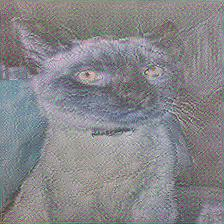
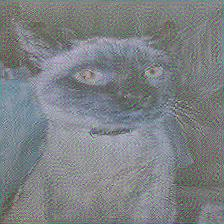
Updated readme and added more results

diff --git a/README.md b/README.md
@@ -5,3 +5,115 @@ This project aims to study the kind of representations learned by ConvNets at di
 1) Deep Inside Convolutional Networks: Visualising Image Classification Models and Saliency Maps by Simonyan et.al.
 
 2) Understanding deep image representations by inverting them by Mahendran et.al.
+
+## Visualizing Score based representations and Extracting Visual Saliency Maps
+
+### Key concepts
+
+This idea was presented in the paper **Deep Inside Convolutional Networks: Visualising Image Classification Models and Saliency Maps** by Simonyan et.al. The authors exlore the following two ideas:
+
+1) What kind of representations are learned by CNN's when we talk about a particular classification score in the solftmax layer of any CNN ? This can be visualized by trying to learn an image from random noise which maximizes the class specific score in the CNN.
+
+2) What is the contribution of individual pixels of any image in the final score achieved by the network? This is explored by extracting Visual Saliency maps by computing the derivative of the final score w.r.t to the input image (this can be done in a single backprop step). The authors also use the Visual Saliency Maps as an initialization tool for GraphCut segmentation which can be used for Object localization and detection. We do **not** explore this aspect of the saliency map in this implementation
+
+### Running the Code
+
+The code for this Visualization can be found in the file `Class_score_and_Saliency_Map_Visualization.ipynb`. It can be run in a top-down manner like any other IPython notebook.
+
+### Idea Dump
+
+I pretrain a `MobileNetV2` architeture on the `cats vs dogs` dataset and then learnt the Visualizations. Would it be better to directly optimize over the learnable image using one of the imagenet class scores rather than pretraining the model
+
+### Results
+
+[WIP]
+
+## Visualizing convnet representations by Inverting them
+
+### Key concepts
+
+This idea was presented in the paper **Understanding deep image representations by inverting them by Mahendran et.al.** by Mahendran et.al. The authors exlore the following idea:
+
+What kind of representations are learned by CNN's at different convolutional blocks? This is explored by trying to invert the representations of a test image at different layers of the network. This can provide us with alternate forms of the same image that can have similiar representations for the ConvNet. This alternative formulation helps us visualize the kind of images that are sufficient to form meaningful representations at different layers of the network.
+
+The inversion procedure involves the following steps:
+
+1) Randomly initialize an image.
+2) Compute the reconstruction loss between the representation of the actual image and the random image at a layer l.
+3) Update the random image by backproping though it using any standard optimizer.
+
+### Running the Code
+
+The code for this Visualization can be found in the file `Inverting_convnet_representations.ipynb`. It can be run in a top-down manner like any other IPython notebook.
+
+I use a pretrained VGG16 network for Visualization at various levels of the network.
+
+### Results
+
+**Original Image**:
+
+<img src='results/cat.jpg' alt='Image not found' style='height:224px; width:224px'>
+
+**Reconstructed Images**:
+
+<table>
+<tr>
+<td>
+Block3 Conv1
+
+<img src='results/img_block3_conv1.jpg' alt='Image not found'/>
+</td>
+<td>
+Block3 Conv2
+
+<img src='results/img_block3_conv2.jpg' alt='Image not found'/>
+</td>
+<td>
+Block3 Conv3
+
+<img src='results/img_block3_conv3.jpg' alt='Image not found'/>
+</td>
+</tr>
+<tr>
+<td>
+Block4 Conv1
+
+<img src='results/img_block4_conv1.jpg' alt='Image not found'/>
+</td>
+<td>
+Block4 Conv2
+
+<img src='results/img_block4_conv2.jpg' alt='Image not found'/>
+</td>
+<td>
+Block4 Conv3
+
+<img src='results/img_block4_conv3.jpg' alt='Image not found'/>
+</td>
+</tr>
+<tr>
+<td>
+Block5 Conv1
+
+<img src='results/img_block5_conv1.jpg' alt='Image not found'/>
+</td>
+<td>
+Block5 Conv2
+
+<img src='results/img_block5_conv2.jpg' alt='Image not found'/>
+</td>
+<td>
+Block5 Conv3
+
+<img src='results/img_block5_conv3.jpg' alt='Image not found'/>
+</td>
+</tr>
+</table>
+
+## Conclusion
+
+1) Inverting the image representations clearly show that as we move down a deep hierarchical model like the VGG16 convnet, the representations become more abstract with the network discarding most of the finer level details in the image and considering only higher level features like shape, eyes, ears etc.
+
+2) Visualizing the Image Saliency Maps clearly shows the main image pixels being responsible for the classfication score assigned by the network. This is somewhat obvious and is expected.
+
+3) Updating the image representation by maximizing the image score does not give any clear representations in my implementation at convergence but this might be due to fine tuning the network and not optimizing the image net score. This is possible since the convnet layers are freezed when pretraining the network.
